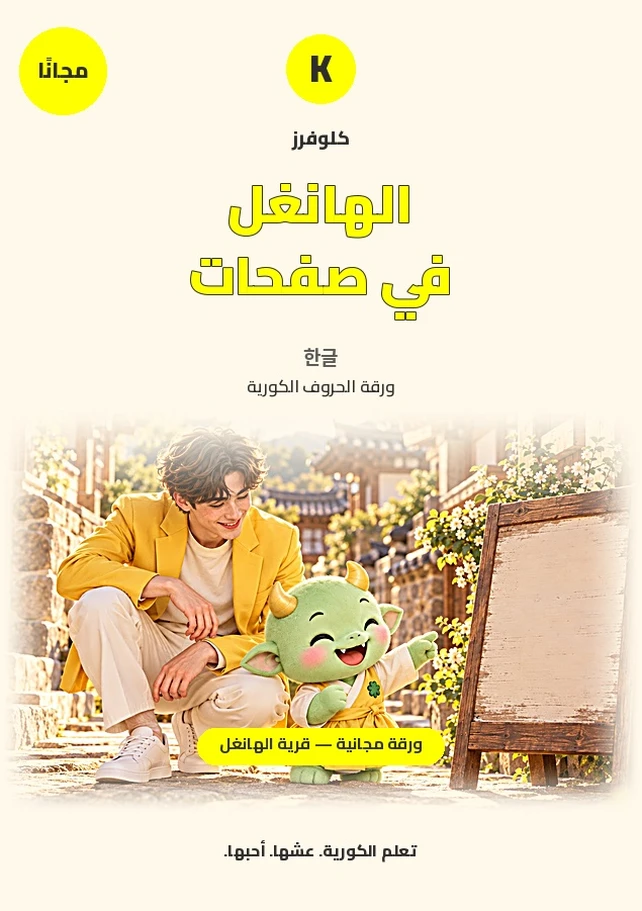
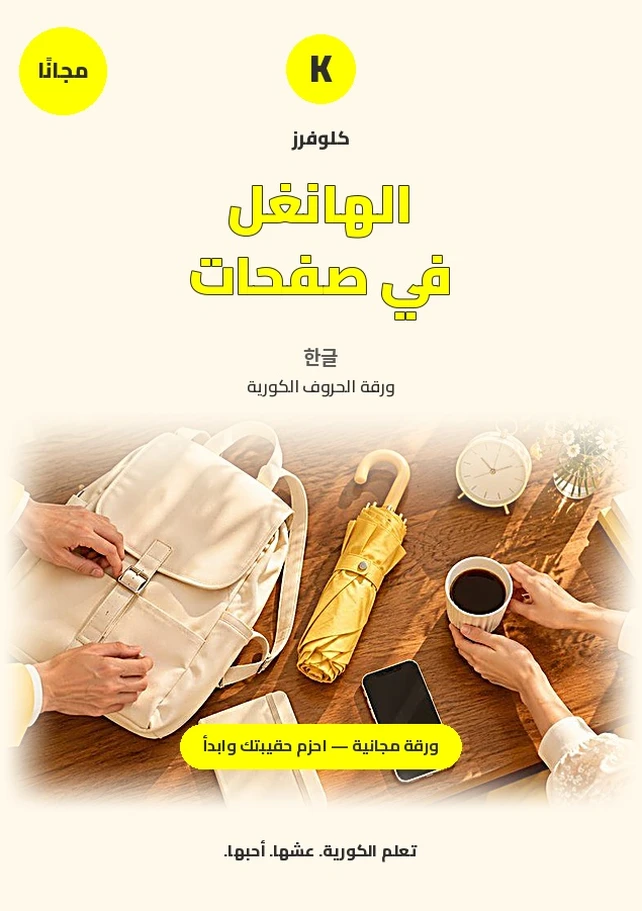
Restyle Hangul starter sheet cover with Re's bag/umbrella/coffee photo
- cover_hangul_starter (ar + en): replace the Hangeul-village photo with
  the flat-lay Re sent (cream backpack, umbrella, alarm clock, coffee,
  flowers on a wood table) - no character faces in this one (hands
  only), an intentional exception to the usual "visible face" rule
  since Re supplied this photo specifically for this cover. Pill text
  updated from "Hangeul Village" to "Pack Your Bag" / "احزم حقيبتك
  وابدأ" to match the new photo instead of the old one.
- Admin -> Books -> Free: the two Hangul-starter-sheet cards were
  hardcoded (PUBLIC_FILES, outside the BOOKS/BOOK_COVERS registry) and
  always showed a plain yellow "한" placeholder instead of a real cover,
  unlike every other card on that screen. Added a `cover` field to each
  entry and render it the same way as the BOOKS cards.
- Added the new source photo to the picture library with an entry in
  pictureLibrary.ts.

Derived book-covers and shop webp thumbnails regenerated to match.

Claude-Session: https://claude.ai/code/session_015xew6yhBJYtLFW24khR685

diff --git a/src/components/admin/BookAssignmentManager.tsx b/src/components/admin/BookAssignmentManager.tsx
@@ -44,9 +44,9 @@ const SHELVES: { id: Shelf; title: string; note: string }[] = [
 ];
 
 /** Public PDFs on the site itself (not in book_assignments). */
-const PUBLIC_FILES: { href: string; title: string; lang: "ar" | "en"; note: string }[] = [
-  { href: "/hangul-starter-ar.pdf", title: "Hangul starter sheet (Arabic)", lang: "ar", note: "Public download on /hangul-starter · 5 pages" },
-  { href: "/hangul-starter-en.pdf", title: "Hangul starter sheet (English)", lang: "en", note: "Public download on /hangul-starter · 5 pages" },
+const PUBLIC_FILES: { href: string; title: string; lang: "ar" | "en"; note: string; cover: string }[] = [
+  { href: "/hangul-starter-ar.pdf", title: "Hangul starter sheet (Arabic)", lang: "ar", note: "Public download on /hangul-starter · 5 pages", cover: "/picture-library/scenes/cover_hangul_starter.jpg" },
+  { href: "/hangul-starter-en.pdf", title: "Hangul starter sheet (English)", lang: "en", note: "Public download on /hangul-starter · 5 pages", cover: "/picture-library/scenes/cover_hangul_starter_en.jpg" },
 ];
 
 interface ShopListing { bookId: string | null; price: { amount: number; currency: string } }
@@ -351,7 +351,8 @@ const BookAssignmentManager = () => {
                 {shelf.id === "free" && PUBLIC_FILES.map(f => (
                   <Card key={f.href}>
                     <CardContent className="p-3 flex gap-3">
-                      <div className="h-[78px] w-[60px] rounded bg-klovers-yellow text-charcoal shrink-0 flex items-center justify-center text-lg font-bold" aria-hidden="true">한</div>
+                      <img src={f.cover} alt="" width={60} height={78} loading="lazy"
+                        className="h-[78px] w-[60px] rounded object-cover shrink-0 bg-muted" />
                       <div className="min-w-0 flex-1 space-y-1.5">
                         <div className="text-xs font-semibold leading-snug">{f.title}</div>
                         <div className="text-[11px] text-muted-foreground">{f.note}</div>

diff --git a/src/constants/pictureLibrary.ts b/src/constants/pictureLibrary.ts
@@ -50,6 +50,11 @@ export const LIBRARY_SCENES: LibraryScene[] = [
   { file: "cover_a0_en", label: "غلاف الهانغُل من الصفر: إنجليزي" },
   { file: "cover_hangul_starter", label: "غلاف ورقة الهانغُل المجانية: عربي" },
   { file: "cover_hangul_starter_en", label: "غلاف ورقة الهانغُل المجانية: إنجليزي" },
+  // صورة الغلاف أعلاه (3 نوفمبر 2026، بطلب Re): حقيبة وشمسية وساعة وقهوة على
+  // طاولة خشب — بدّلت صورة "قرية الهانغل" القديمة. ملاحظة: لا وجه شخصية ظاهر
+  // في هذه الصورة (أيدٍ فقط)، استثناء من قاعدة "وجه واضح" في دليل التصميم،
+  // لأن الصورة جاءت من Re مباشرة لهذا الغرض بالذات.
+  { file: "hangul_starter_pack", label: "مصدر غلاف ورقة الهانغُل: حقيبة وشمسية وقهوة على الطاولة (بدون وجوه)" },
   { file: "cover_trial_ar", label: "غلاف دليل الحصة التجريبية: عربي" },
   { file: "cover_trial_en", label: "غلاف دليل الحصة التجريبية: إنجليزي" },
   // Lesson opener scenes (1 Oct 2026). Each lesson has its own opener
